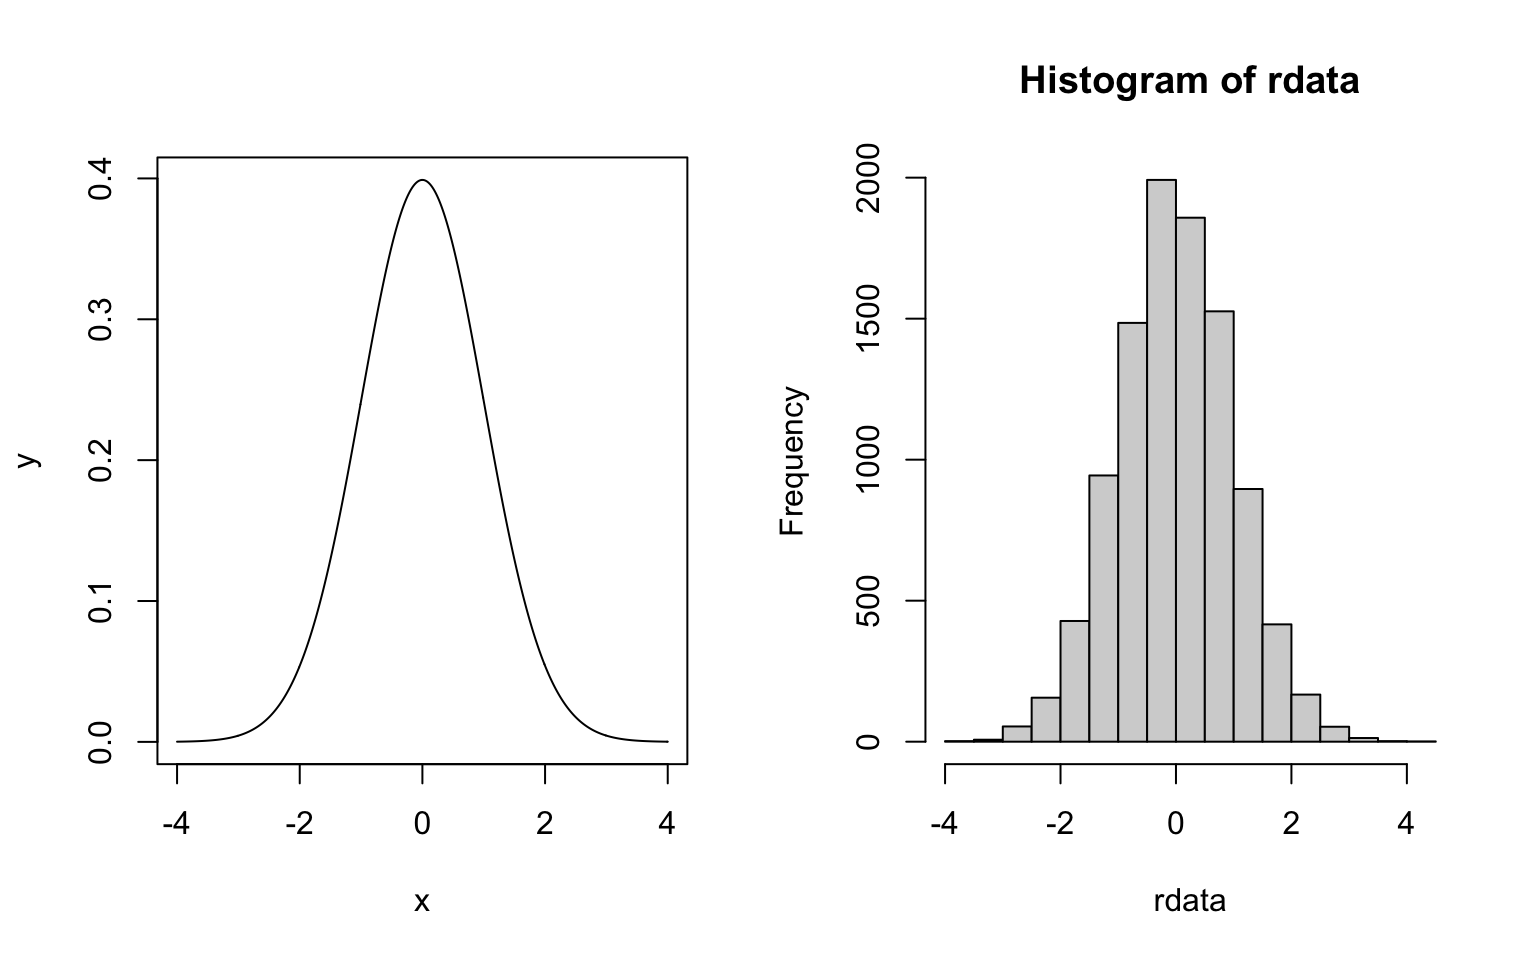
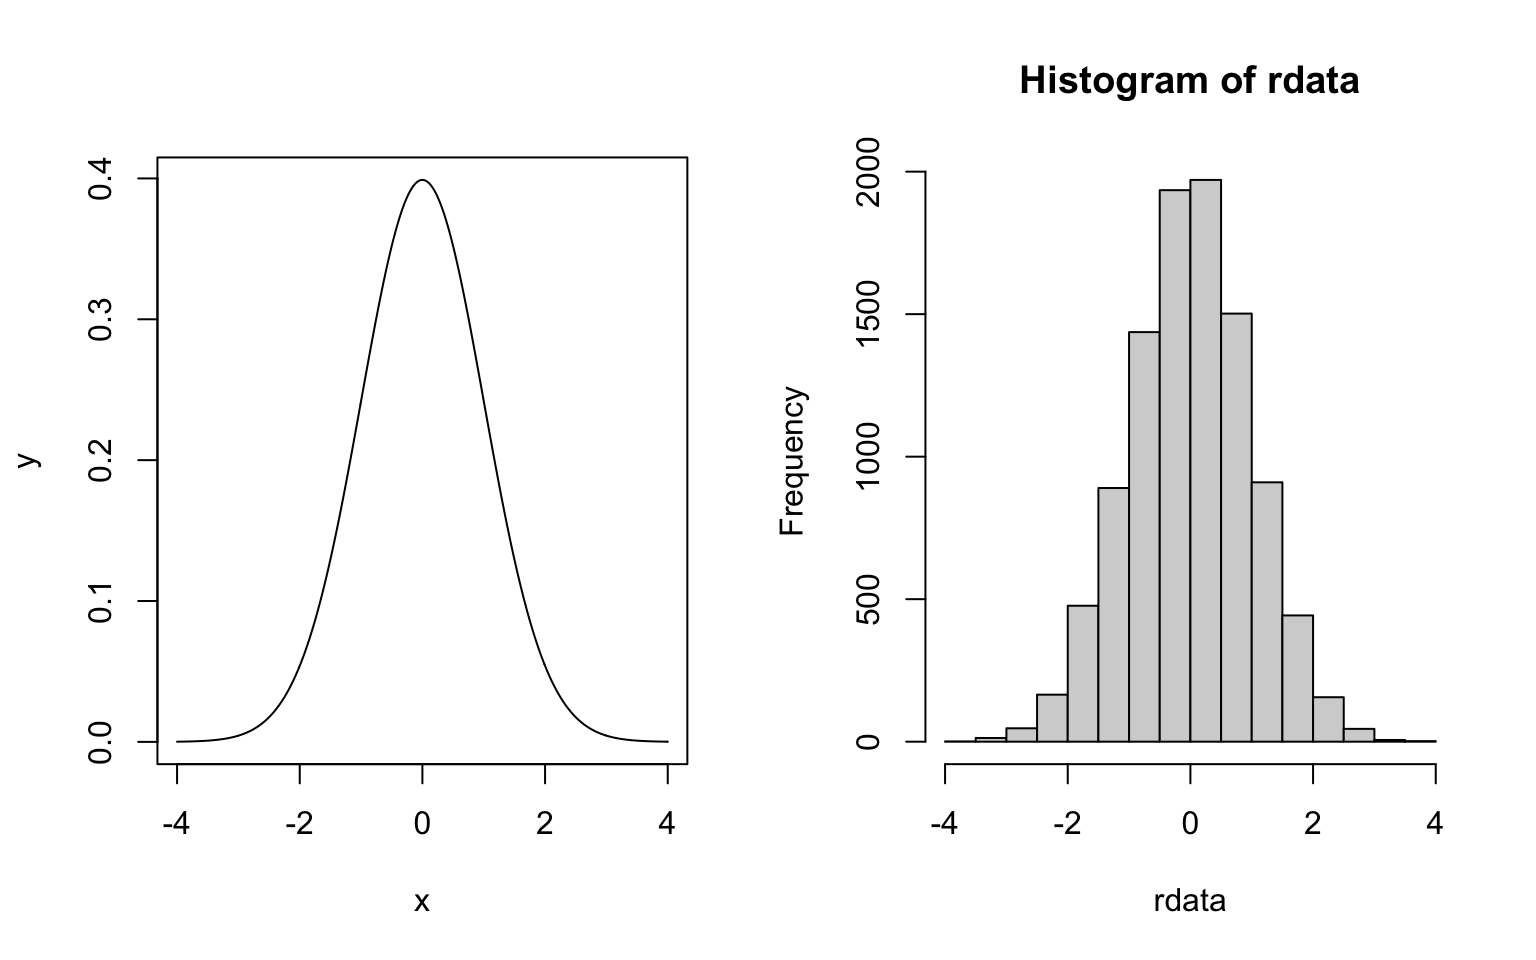
modify # chains to 1

diff --git a/docs/baba.html b/docs/baba.html
@@ -1189,7 +1189,7 @@
 <span id="cb11-3"><a href="#cb11-3" aria-hidden="true" tabindex="-1"></a>data<span class="ot">&lt;-</span><span class="fu">c</span>(<span class="fl">2.4</span>,<span class="fl">3.2</span>,<span class="fl">2.2</span>,<span class="fl">4.6</span>,<span class="fl">3.3</span>)</span>
 <span id="cb11-4"><a href="#cb11-4" aria-hidden="true" tabindex="-1"></a>m<span class="ot">&lt;-</span><span class="dv">0</span></span>
 <span id="cb11-5"><a href="#cb11-5" aria-hidden="true" tabindex="-1"></a>v<span class="ot">&lt;-</span><span class="dv">1</span></span>
-<span id="cb11-6"><a href="#cb11-6" aria-hidden="true" tabindex="-1"></a>chain<span class="ot">&lt;-</span><span class="dv">5</span></span>
+<span id="cb11-6"><a href="#cb11-6" aria-hidden="true" tabindex="-1"></a>chain<span class="ot">&lt;-</span><span class="dv">1</span></span>
 <span id="cb11-7"><a href="#cb11-7" aria-hidden="true" tabindex="-1"></a><span class="co">#knl&lt;-numeric(nrp)</span></span>
 <span id="cb11-8"><a href="#cb11-8" aria-hidden="true" tabindex="-1"></a><span class="co">#theta&lt;-numeric(nrp)</span></span>
 <span id="cb11-9"><a href="#cb11-9" aria-hidden="true" tabindex="-1"></a>knl<span class="ot">&lt;-</span><span class="fu">matrix</span>(<span class="dv">0</span>,<span class="at">nrow=</span>nrp, <span class="at">ncol=</span>chain)</span>
@@ -1222,17 +1222,17 @@
 <span id="cb11-36"><a href="#cb11-36" aria-hidden="true" tabindex="-1"></a><span class="cf">for</span> (wf <span class="cf">in</span> <span class="dv">1</span><span class="sc">:</span>chain){</span>
 <span id="cb11-37"><a href="#cb11-37" aria-hidden="true" tabindex="-1"></a>  <span class="cf">if</span> (wf<span class="sc">&gt;</span><span class="dv">1</span>){</span>
 <span id="cb11-38"><a href="#cb11-38" aria-hidden="true" tabindex="-1"></a>    <span class="fu">par</span>(<span class="at">new=</span>T)</span>
-<span id="cb11-39"><a href="#cb11-39" aria-hidden="true" tabindex="-1"></a>    <span class="fu">plot</span>(theta[<span class="dv">1</span><span class="sc">:</span>nrp,wf],<span class="at">type=</span><span class="st">&#39;l&#39;</span>, <span class="at">xlab=</span><span class="st">&#39;&#39;</span>,<span class="at">ylab=</span><span class="st">&#39;&#39;</span>, <span class="at">col=</span>wf<span class="sc">+</span><span class="dv">1</span>, <span class="at">ylim=</span>(<span class="fu">c</span>(<span class="fu">min</span>(theta),<span class="fu">max</span>(theta))))</span>
+<span id="cb11-39"><a href="#cb11-39" aria-hidden="true" tabindex="-1"></a>    <span class="fu">plot</span>(theta[<span class="dv">1</span><span class="sc">:</span>nrp,wf],<span class="at">type=</span><span class="st">&#39;l&#39;</span>, <span class="at">xlab=</span><span class="st">&#39;&#39;</span>,<span class="at">ylab=</span><span class="st">&#39;&#39;</span>, <span class="at">col=</span>wf, <span class="at">ylim=</span>(<span class="fu">c</span>(<span class="fu">min</span>(theta),<span class="fu">max</span>(theta))))</span>
 <span id="cb11-40"><a href="#cb11-40" aria-hidden="true" tabindex="-1"></a>  }<span class="cf">else</span>{</span>
-<span id="cb11-41"><a href="#cb11-41" aria-hidden="true" tabindex="-1"></a>    <span class="fu">plot</span>(theta[<span class="dv">1</span><span class="sc">:</span>nrp,wf],<span class="at">type=</span><span class="st">&#39;l&#39;</span>, <span class="at">main=</span><span class="fu">mean</span>(theta), <span class="at">col=</span>wf<span class="sc">+</span><span class="dv">1</span>, <span class="at">ylim=</span>(<span class="fu">c</span>(<span class="fu">min</span>(theta),<span class="fu">max</span>(theta))))</span>
+<span id="cb11-41"><a href="#cb11-41" aria-hidden="true" tabindex="-1"></a>    <span class="fu">plot</span>(theta[<span class="dv">1</span><span class="sc">:</span>nrp,wf],<span class="at">type=</span><span class="st">&#39;l&#39;</span>, <span class="at">main=</span><span class="fu">mean</span>(theta), <span class="at">col=</span>wf, <span class="at">ylim=</span>(<span class="fu">c</span>(<span class="fu">min</span>(theta),<span class="fu">max</span>(theta))))</span>
 <span id="cb11-42"><a href="#cb11-42" aria-hidden="true" tabindex="-1"></a>  }</span>
 <span id="cb11-43"><a href="#cb11-43" aria-hidden="true" tabindex="-1"></a>}</span>
 <span id="cb11-44"><a href="#cb11-44" aria-hidden="true" tabindex="-1"></a><span class="fu">par</span>(<span class="at">new=</span>F)</span>
 <span id="cb11-45"><a href="#cb11-45" aria-hidden="true" tabindex="-1"></a><span class="cf">for</span> (wf <span class="cf">in</span> <span class="dv">1</span><span class="sc">:</span>chain){</span>
 <span id="cb11-46"><a href="#cb11-46" aria-hidden="true" tabindex="-1"></a>  <span class="cf">if</span> (wf<span class="sc">&gt;</span><span class="dv">1</span>){</span>
-<span id="cb11-47"><a href="#cb11-47" aria-hidden="true" tabindex="-1"></a>    <span class="fu">hist</span>(theta[,wf], <span class="at">col=</span><span class="fu">adjustcolor</span>(wf<span class="sc">+</span><span class="dv">1</span>, <span class="at">alpha.f=</span><span class="fl">0.3</span>), <span class="at">add=</span><span class="cn">TRUE</span>, <span class="at">breaks=</span><span class="fu">seq</span>(<span class="fu">floor</span>(<span class="fu">min</span>(theta)),<span class="fu">ceiling</span>(<span class="fu">max</span>(theta)),<span class="dv">1</span>))</span>
+<span id="cb11-47"><a href="#cb11-47" aria-hidden="true" tabindex="-1"></a>    <span class="fu">hist</span>(theta[,wf], <span class="at">col=</span><span class="fu">adjustcolor</span>(wf, <span class="at">alpha.f=</span><span class="fl">0.3</span>), <span class="at">add=</span><span class="cn">TRUE</span>, <span class="at">breaks=</span><span class="fu">seq</span>(<span class="fu">floor</span>(<span class="fu">min</span>(theta)),<span class="fu">ceiling</span>(<span class="fu">max</span>(theta)),<span class="dv">1</span>))</span>
 <span id="cb11-48"><a href="#cb11-48" aria-hidden="true" tabindex="-1"></a>  }<span class="cf">else</span>{</span>
-<span id="cb11-49"><a href="#cb11-49" aria-hidden="true" tabindex="-1"></a>    <span class="fu">hist</span>(theta[,wf], <span class="at">col=</span><span class="fu">adjustcolor</span>(wf<span class="sc">+</span><span class="dv">1</span>, <span class="at">alpha.f=</span><span class="fl">0.3</span>), <span class="at">breaks=</span><span class="fu">seq</span>(<span class="fu">floor</span>(<span class="fu">min</span>(theta)),<span class="fu">ceiling</span>(<span class="fu">max</span>(theta)),<span class="dv">1</span>))</span>
+<span id="cb11-49"><a href="#cb11-49" aria-hidden="true" tabindex="-1"></a>    <span class="fu">hist</span>(theta[,wf], <span class="at">col=</span><span class="fu">adjustcolor</span>(wf, <span class="at">alpha.f=</span><span class="fl">0.3</span>), <span class="at">breaks=</span><span class="fu">seq</span>(<span class="fu">floor</span>(<span class="fu">min</span>(theta)),<span class="fu">ceiling</span>(<span class="fu">max</span>(theta)),<span class="dv">1</span>))</span>
 <span id="cb11-50"><a href="#cb11-50" aria-hidden="true" tabindex="-1"></a>  }</span>
 <span id="cb11-51"><a href="#cb11-51" aria-hidden="true" tabindex="-1"></a>}</span></code></pre></div>
 <p><img src="baba_files/figure-html/m-h%20method-1.png" width="768" /></p>
